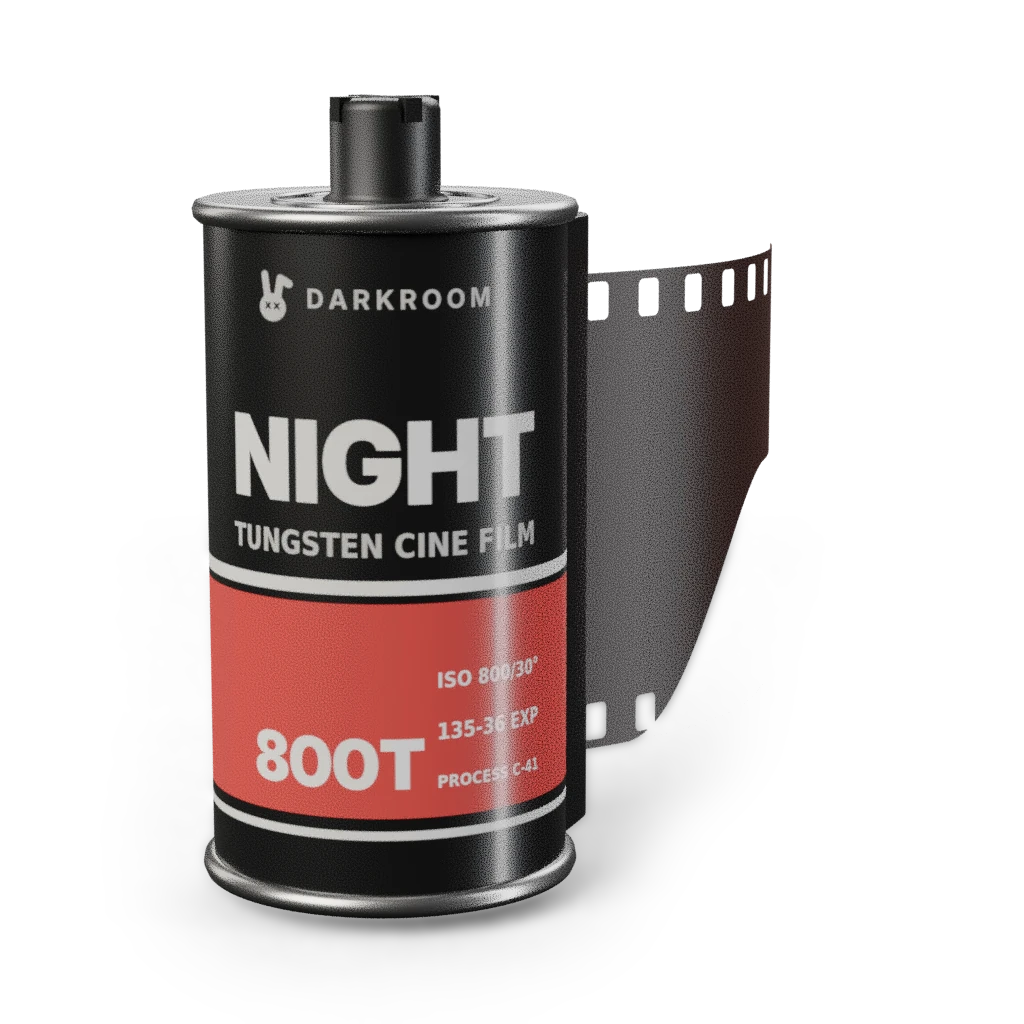
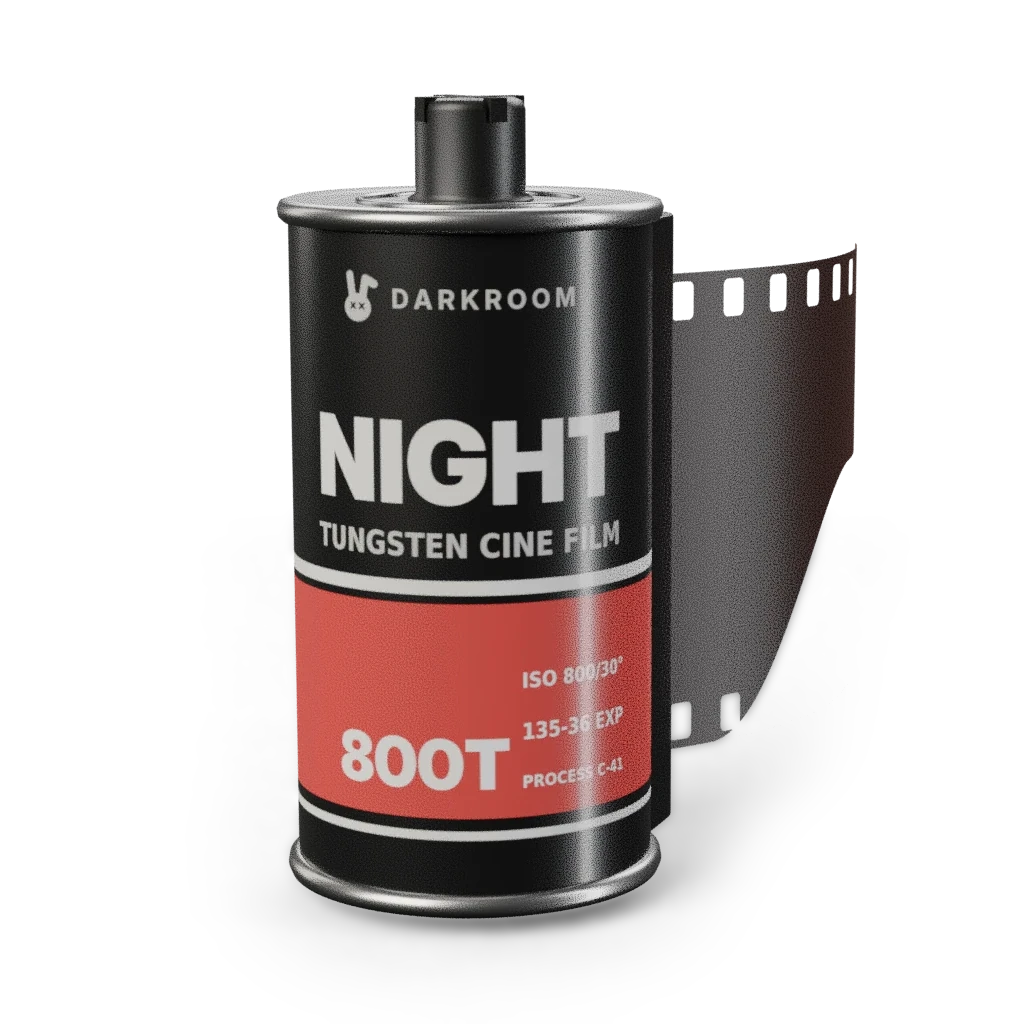
Carousel: Golden, Night and Chrome canisters centred like the first three

diff --git a/docs/CHANGELOG.md b/docs/CHANGELOG.md
@@ -1307,3 +1307,5 @@ for from 2026-10-28 (reminder set for 2026-10-29).
   the projector behind you (faint beam, warm spill on the wall, lamp
   flicker), above a walnut hi-fi console with a glowing table lamp and a
   plant. Fits 4:3, 2.20 and tall reels, upright and turned.
+- [ ] **57.49** Carousel: Golden 200, Night 800T and Chrome 50 centred on the
+  canister like the first three (art shifted 85 px; knob at x 470 of 1024).
